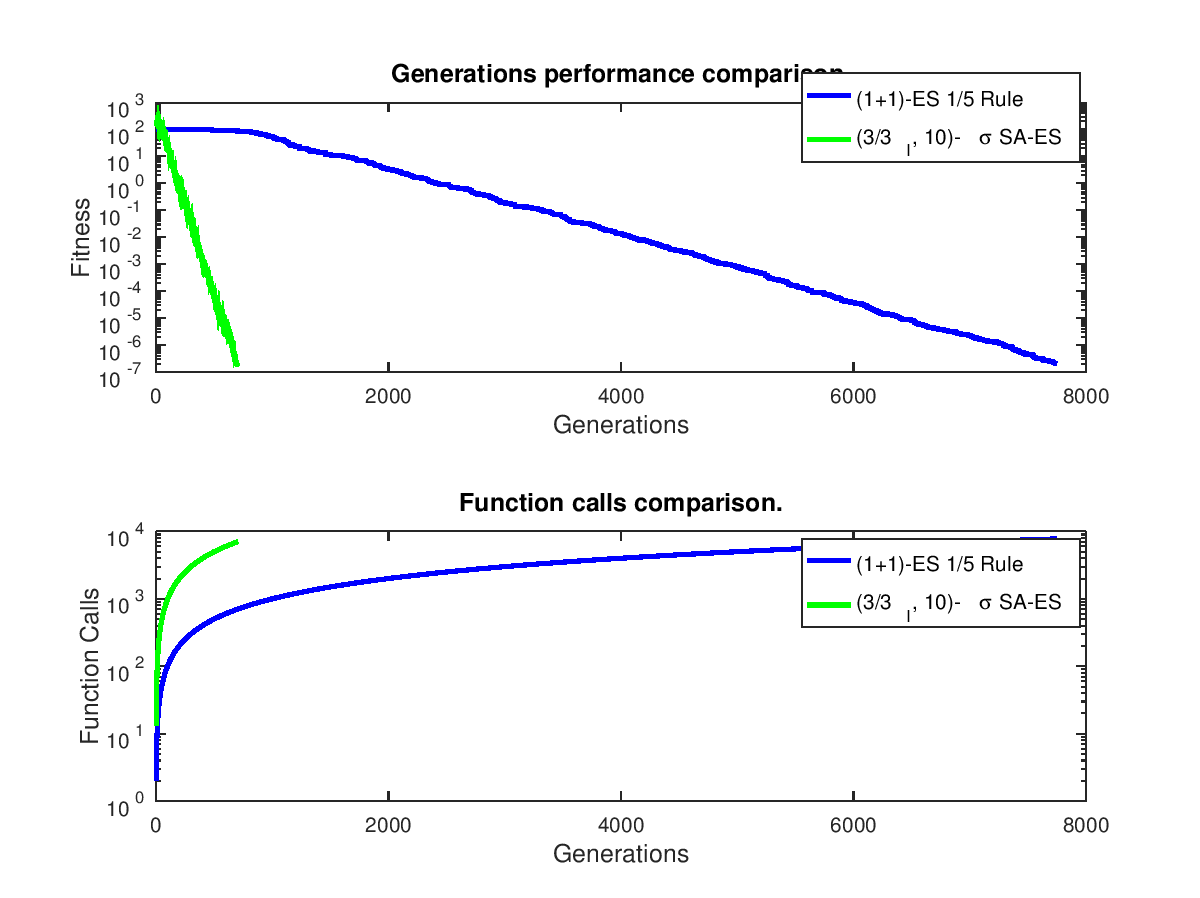
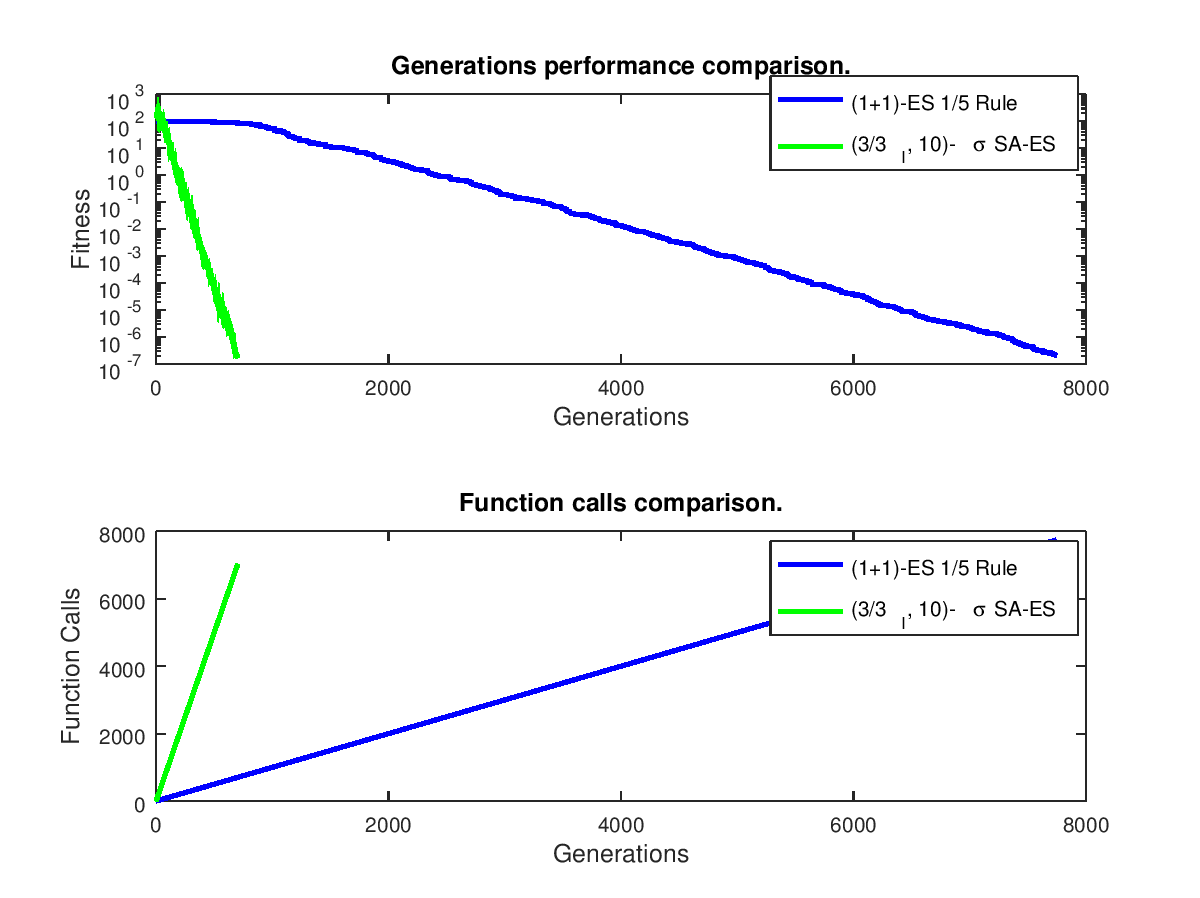
task 9 graph update

diff --git a/task9/RunAll_Task9.m b/task9/RunAll_Task9.m
@@ -31,10 +31,10 @@ legend('(1+1)-ES 1/5 Rule','(3/3_I, 10)-\sigma SA-ES');
 % Plotting second part (task b)
 subplot(2, 1, 2);
 
-semilogy(opo_functionsCalls, '-', 'Color', 'blue', 'linewidth', 2);
+plot(opo_functionsCalls, '-', 'Color', 'blue', 'linewidth', 2);
 hold on;
 
-semilogy(sa_es_functionsCalls, '-', 'Color', 'green', 'linewidth', 2);
+plot(sa_es_functionsCalls, '-', 'Color', 'green', 'linewidth', 2);
 hold off;
 
 xlabel('Generations', 'FontSize', 12);
